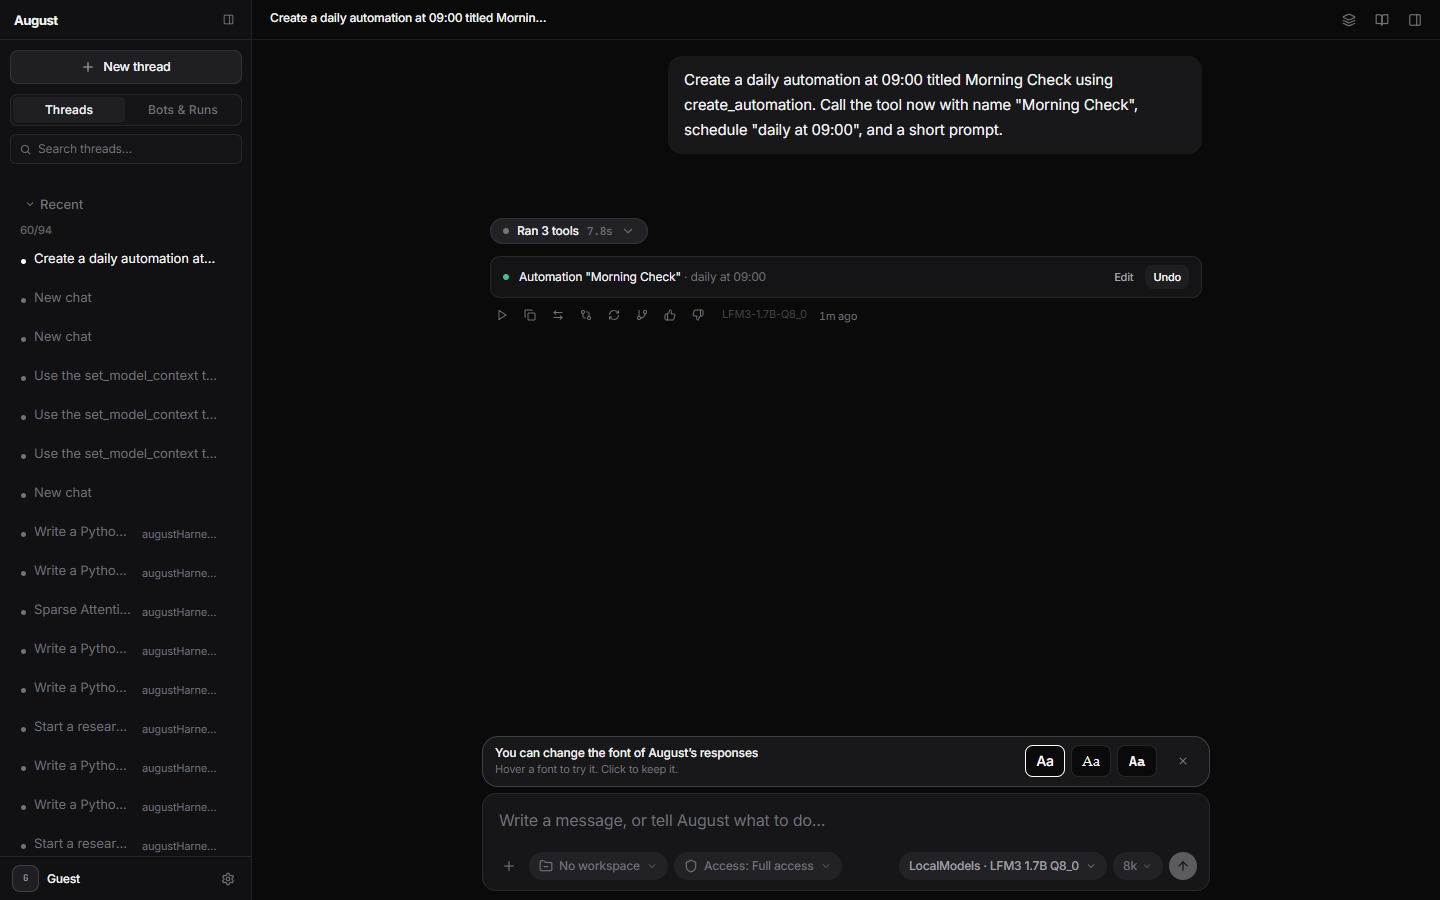
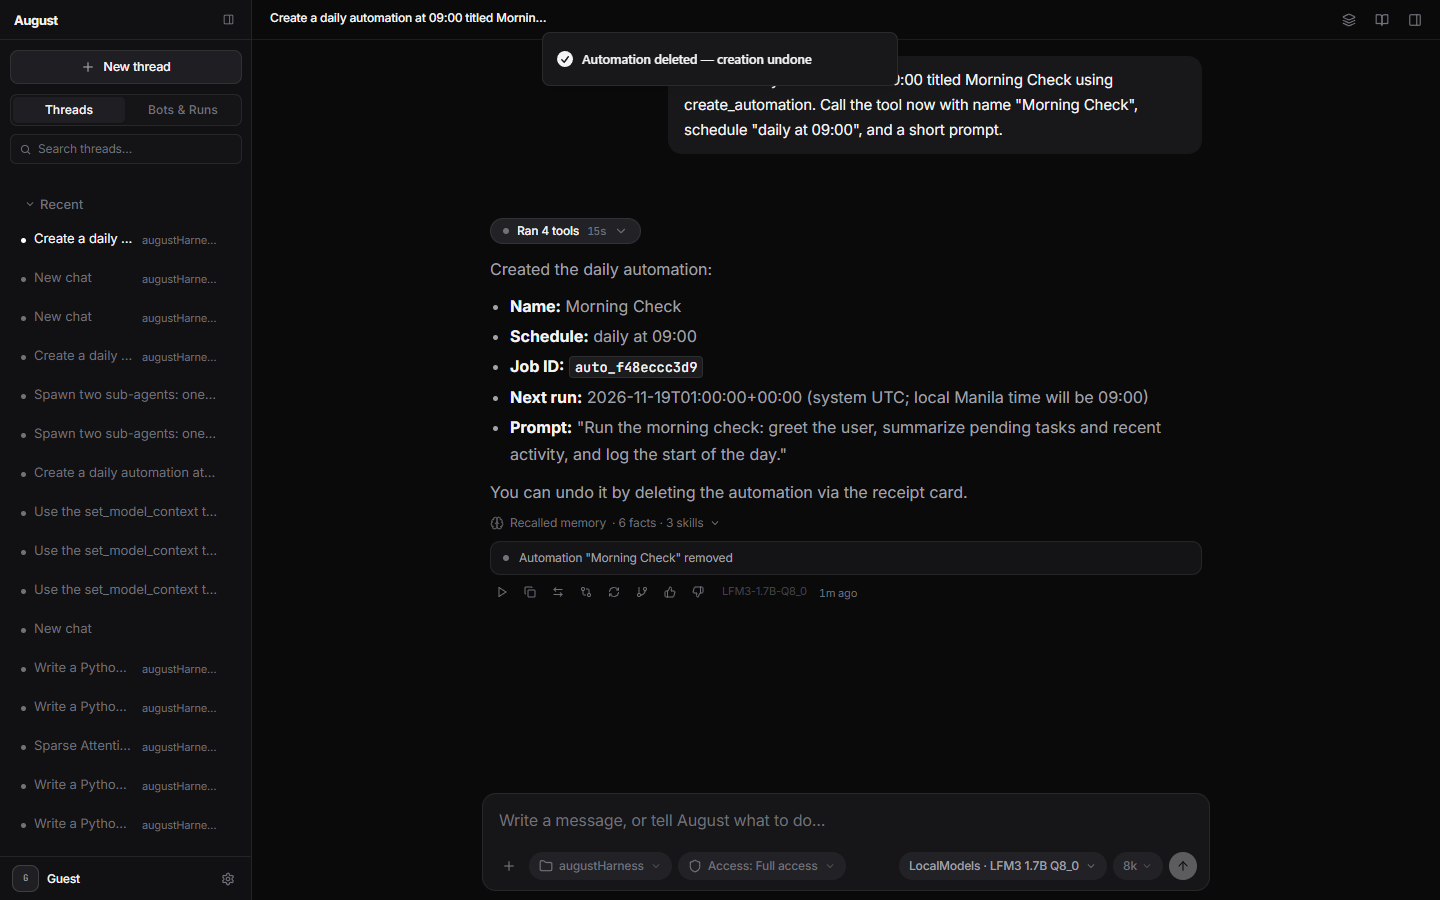
docs(qa): record polished screenshots, receipt undo, and 8k/16k fanout results
Refreshes the after/ and desktop-diet/ evidence against the polished UI and local-subagent alias fix, recording the Receipt+Undo pass and the honest partial pass on 8k/16k 1.7B subagent fanout.

diff --git a/docs/plan/agent-driven-august.md b/docs/plan/agent-driven-august.md
@@ -712,42 +712,61 @@ Clean scratch profile + served LFM3-1.7B (vulkan). Verified LIVE:
 
 ## Live QA & evidence pass (2026-11-18) — `ui-redesign` `after/` + `desktop-diet`
 
-The 19-shot `after/` suite was captured from the real Tauri shell on CDP `:9223`
-at 1440×900 and 1280×800; the inventory and measured geometry are recorded in
+The `after/` suite was captured from the real Tauri shell on CDP `:9223` at
+1440×900 and 1280×800; the inventory and measured geometry are recorded in
 [ui-spatial-redesign.md](ui-spatial-redesign.md). The installed runtime backend
 was synced from `backend-py/app` first — it predated the November 17 fixes.
 
-Live receipt-card click-through (real backend, no route mocking):
+Re-verification after the polish fixes (`05932853`) re-captured `01`, `05`,
+`08`, `02`, `03`, `04`: `01`/`05` show the `Threads` tab active, zero
+`FontChooserToast`, and no `60/95` sidebar counter; `08` shows `Read-only`,
+`Standard`, and `Full access` all visible unclipped; `02`/`03`/`04` show the
+clean `#121215` timeline, the folded activity pill, and the dark monochrome
+theme.
+
+Live receipt-card click-through (real backend, no route mocking) — PASS:
 - `docs/evidence/desktop-diet/09-receipt-card-rendered.png` and
 `10-receipt-card-after-undo.png`: a chat turn on the served LFM3-1.7B invoked
-`create_automation`, producing `Automation "Morning Check" · daily at 09:00`
-with Edit + Undo. Clicking Undo returned `Automation deleted — creation
-undone`, and `GET /api/automations` became `{"jobs":[]}` — the rollback really
-happened, not just a toast.
+`create_automation`, rendering `Automation "Morning Check" · daily at 09:00`
+with `[Edit] [Undo]`. Clicking `Undo` raised the dark monochrome toast
+`Automation deleted — creation undone`, flipped the receipt card itself to
+`Automation "Morning Check" removed`, and `GET /api/automations` returned
+`{"jobs":[]}` — the rollback really happened, not just a toast.
 - The Tauri backend supervisor restarted its process tree every ~2–3 minutes
 and killed the served model mid-turn. Both live turn verifications were
 therefore driven in the browser dev-server UI (`http://localhost:5173`)
 against the same real backend (Vite `/api` proxy → 8085), not the Tauri
 window. No API routes were mocked; the `after/` screenshots remain Tauri.
 
-Live 2-subagent fanout (real backend, LFM3-1.7B-Q8_0, Vulkan, no route mocking):
+Local-model subagent alias fix (`backend-py/app/services/alias_mapping_service.py`):
+`_has_credentials` lacked an `is_loopback_base_url` check, so `subagent.py`
+rejected the keyless `LocalModels` provider and fell back to `'Opencode Zen'`,
+killing subagents in ~1s. The fix treats a loopback base URL as credentialed
+(matching `resolver._is_keyless_ok`). `npm run gates:backend` passed: `ruff`,
+`mypy` 397 files, `check:api`, and `e2e:smoke` 21/21.
+
+Live 2-subagent fanout (real backend, LFM3-1.7B-Q8_0, Vulkan, no route mocking)
+— partial pass:
 - 8k: `11-fanout-8k-collapsed.png` / `11b-fanout-8k-expanded.png`.
 16k: `12-fanout-16k-collapsed.png` / `12b-fanout-16k-expanded.png` (all in
 `docs/evidence/desktop-diet/`). The 16k preset was applied from the standalone
 composer context pill; the pill read `16k` and the server row reported
-`ctx 16384 (prev 8192)`. Both windows spawned two workers and neither showed
-`Context size has been exceeded` or raw `[SUBAGENT_COMPLETE]` bubbles.
-- Honest limits: the 1.7B reasoning model spent its output budget on thinking,
-so neither leg produced a final assistant answer; the 16k workers ended
-`failed` (capped at one at a time, the model asked for four) and the expanded
-timeline showed thought/tool rows rather than two `done` subagent rows. The
-fanout machinery and the 8k overflow fix ran, but the "both workers completed"
-acceptance criterion is **not** verified by this pass.
-- The machine was not quiet: sibling workers and an augustTrading dev server
-were running, memory load reached 90%, and the warm-release loop was disabled
-for the pass with `PUT /api/config/wake-up {"warmModel":false}` (restored at
-teardown). The repo data profile's LocalModels provider was enabled for the
-pass (also restored).
+`ctx 16384 (prev 8192)`. Zero `Alias fallback` warnings, zero
+`Context size has been exceeded` errors at 8k, and zero raw
+`[SUBAGENT_COMPLETE]` bubbles in either window.
+- At `16k` (with `augustHarness` bound, `Full access`, `Low` effort,
+`Extended thinking` off) `spawn_subagents` executed (`Ran 2 sub-agents —
+capped at 2 at a time`); `List files in tool_registrations` completed
+(`done` in 39s) while `Count .py files in routers` failed (1m05s), and the
+parent 1.7B turn overflowed after 16 rounds with job-poll errors (`no
+background command`). At `8k`, the 1.7B spent its output tokens on thinking
+before calling `spawn_subagents`. The fanout machinery and the 8k overflow
+fix ran, but the "both workers completed" acceptance criterion is **not**
+verified by this pass.
+- The warm-release loop was disabled for the pass with
+`PUT /api/config/wake-up {"warmModel":false}`; teardown restored
+`wakeUp.warmModel=true`, verified ports `5173`/`8085`/`9223` free, and found
+zero orphaned `llama-server` processes.
 
 No new numbered plan part was created; this work ships under the `ui-redesign`
 slug and the closed Part series is untouched.

diff --git a/docs/plan/ui-spatial-redesign.md b/docs/plan/ui-spatial-redesign.md
@@ -228,20 +228,28 @@ The full 19-shot suite now exists in `docs/evidence/ui-redesign/after/`, capture
 from the real Tauri desktop shell on CDP `:9223` (`npm run dev:vite` +
 `npm run tauri:dev:cdp`) at both required viewports. Before capture the AppData
 runtime backend was synced from `backend-py/app`, because the installed copy
-predated the November 17 worker/output fixes.
+predated the November 17 worker/output fixes. After the polish fixes
+(`05932853`), shots `01`, `05`, `08`, `02`, `03`, `04` were re-captured and
+re-verified: `01`/`05` show the `Threads` tab active, zero `FontChooserToast`,
+and no `60/95` sidebar counter; `08` shows `Read-only`, `Standard`, and
+`Full access` all visible unclipped; `02`/`03`/`04` show the clean `#121215`
+timeline, the folded activity pill, and the dark monochrome theme.
 
 - Empty state (`01`, `05`): calm greeting, the four monochrome starter chips,
   and a two-row 760px pill with left (`[+]`, `augustHarness`, `Access: Standard`)
   and right (`LocalModels · LFM3 1.7B Q8_0`, `8k`, Send) controls. Measured:
   width 760px, radius 14px, surface `rgb(22,22,24)`, no `composer-footer-row`,
-  368px of clear space below the pill at 1440×900.
+  368px of clear space below the pill at 1440×900; `Threads` tab active, zero
+  `FontChooserToast`, no `60/95` sidebar counter.
 - Thread states (`02`, `03`, `04`): one folded `activity-group` pill opening to
-  the `#121215` timeline; no raw `[SUBAGENT_COMPLETE]` / `● QUEUED` bubbles and
-  no floating wake-up toast or scroll-to-top button.
+  the clean `#121215` timeline in the dark monochrome theme; no raw
+  `[SUBAGENT_COMPLETE]` / `● QUEUED` bubbles and no floating wake-up toast or
+  scroll-to-top button.
 - Composer popovers (`06`–`10`): actions, workspace, access, model, context.
   The context popover measures 280px with presets `4k/8k/16k/32k/64k` and an
   unclipped `Apply`; the model popover carries providers/models plus Effort and
-  Extended thinking and no workspace/access/context rows.
+  Extended thinking and no workspace/access/context rows; the access popover
+  (`08`) shows `Read-only`, `Standard`, and `Full access` all visible unclipped.
 - Sidebar/header (`11`–`14`): flat Pinned/Recent list with muted folder tags,
   inline title edit, Bots & Runs with zero ConfirmDialog lockup, collapsed rail
   with the titlebar expand control.
